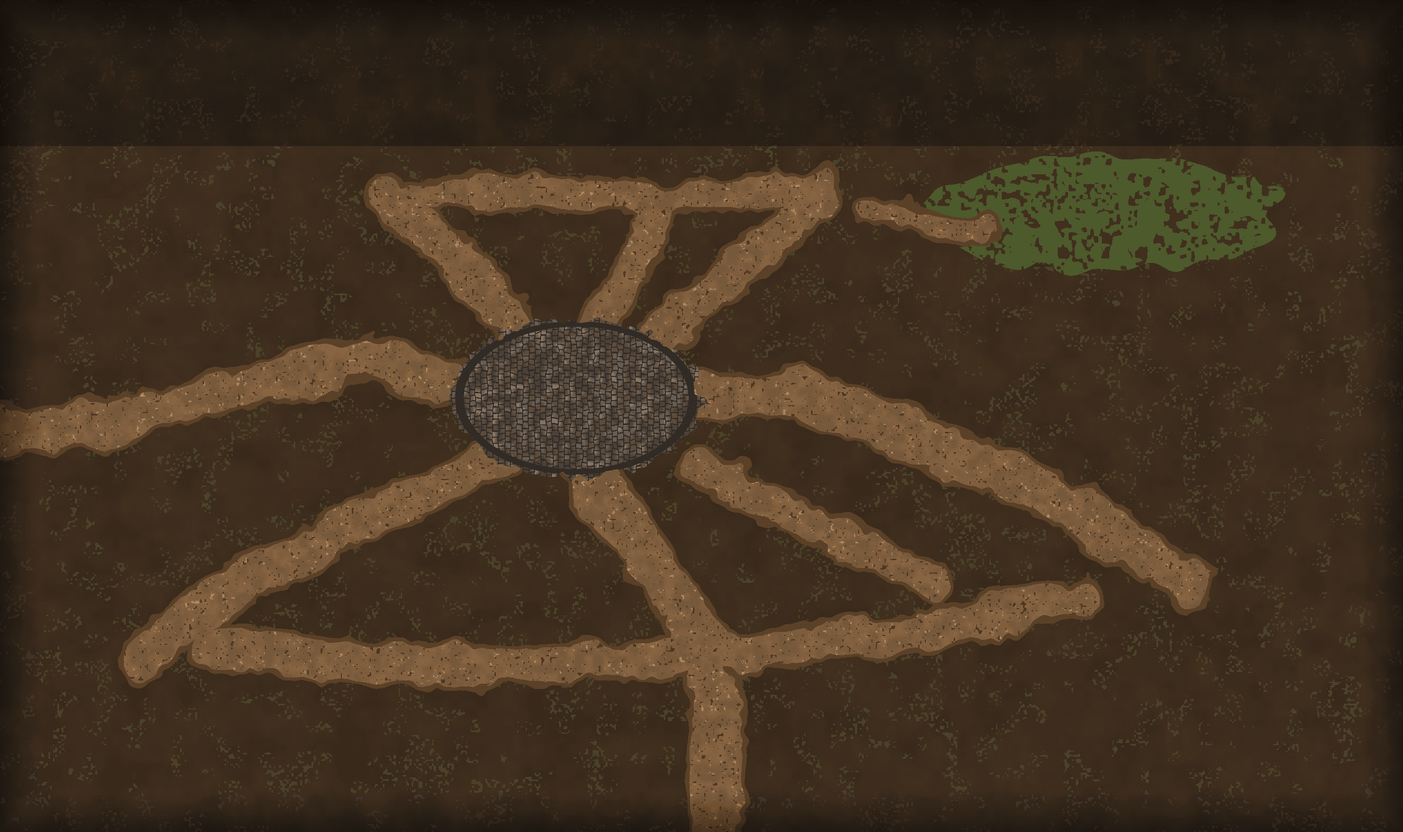
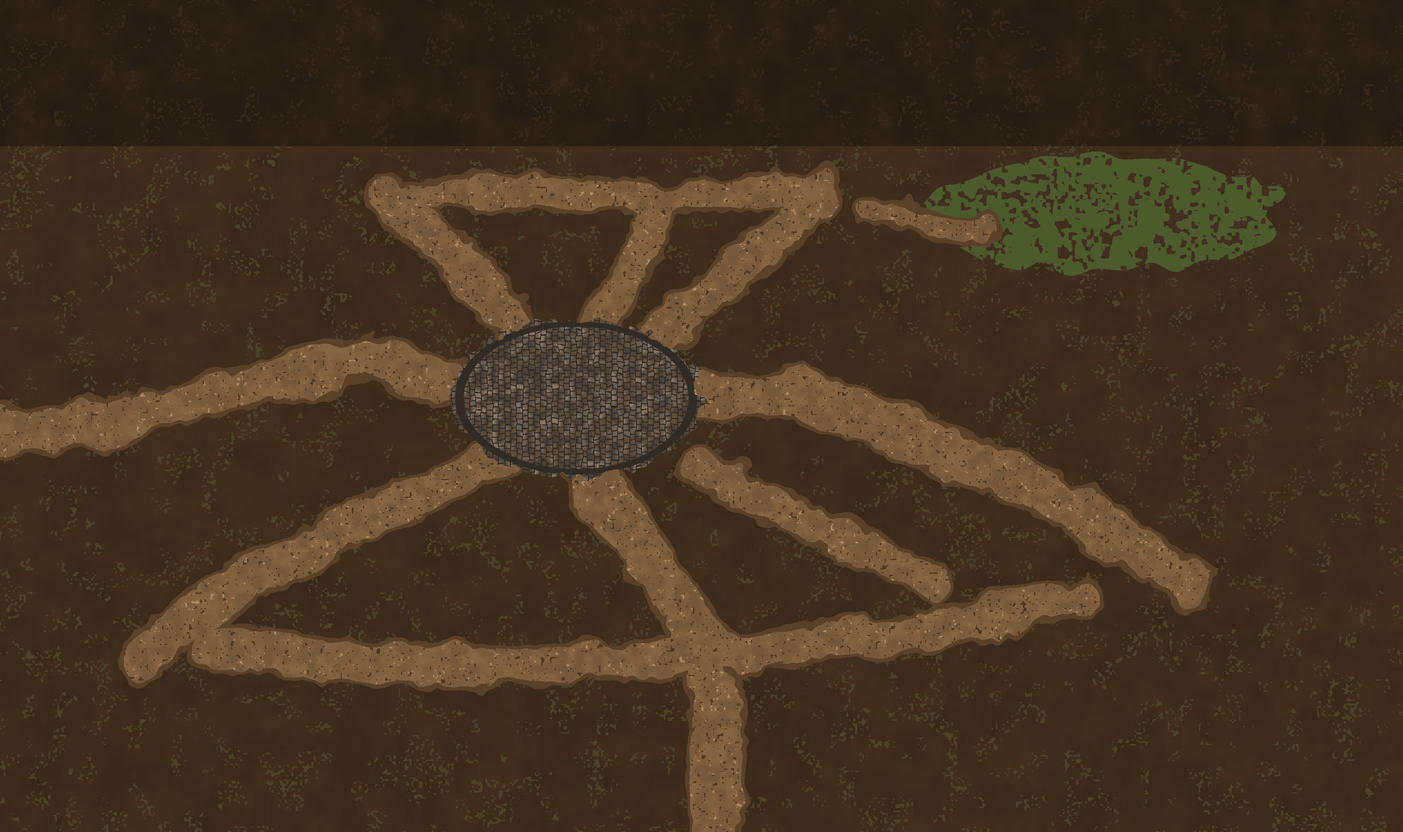
PR #122 review (art room): start inside the south gate, mobs never step into a town part (moveCol), gate opening walkable (no prop solid rect over it; Gas stands beside it), no bright band at the gate seam (town dusk fades into the field top, no dark bottom edge in town); main merged (#121)
Claude-Session: https://claude.ai/code/session_011TjkMwr4fUrpUSjUtodMij

diff --git a/test128/world.js b/test128/world.js
@@ -104,7 +104,7 @@
       for (const k in r.spawns || {}) { const v = r.spawns[k]; spawns[p.map + ':' + k] = [v[0] + p.x, v[1] + p.y].concat(v.slice(2)); }
       for (const k in r.chests || {}) { const [cx, cy] = k.split(',').map(Number); chests[(cx + p.x) + ',' + (cy + p.y)] = r.chests[k]; }
       if (r.hd) (j._hds = j._hds || []).push(Object.assign({}, r.hd, { gx: p.x, gy: p.y }));
-      areas.push({ zoom: r.viewZoom, id: p.map, part: p.map, name: (r.title && r.title.name) || r.name, sub: (r.title && r.title.sub) || '', x: p.x, y: p.y, w: r.w, h: r.h, bgm: r.bgm, battleBgm: r.battleBgm, grade: r.grade, bg: r.bg }); });
+      areas.push({ town: r.type === 'town', zoom: r.viewZoom, id: p.map, part: p.map, name: (r.title && r.title.name) || r.name, sub: (r.title && r.title.sub) || '', x: p.x, y: p.y, w: r.w, h: r.h, bgm: r.bgm, battleBgm: r.battleBgm, grade: r.grade, bg: r.bg }); });
     spawns.default = spawns.default || spawns[ids[0] + ':default'];
     return Object.assign({}, parts[0], j, { type: 'field', w: W, h: H, ground: rows.map(r => r.join('')), legend, solid: [...solid], objects, spawns, chests, areas: j.areas || areas, bg: null, grade: null,
       title: j.title || parts[0].title, name: j.name || parts[0].name, bgm: parts[0].bgm, mapPos: [0, 0], hd: null, hds: j._hds || null }); }); }
@@ -380,7 +380,8 @@
   function blocked(x, y, r) { return solidAt(x, y) || solidAt(x - r, y) || solidAt(x + r, y) || solidAt(x, y - r * .6) || solidAt(x, y + r * .4); }
   function moveCol(e, dx, dy, r, fly) {
     const m = M(); let ok = true;
-    const bl = fly ? (x, y) => x < 6 || y < 10 || x > m.pw - 6 || y > m.ph - 4 : (x, y) => blocked(x, y, r);
+    const b0 = fly ? (x, y) => x < 6 || y < 10 || x > m.pw - 6 || y > m.ph - 4 : (x, y) => blocked(x, y, r);
+    const bl = e !== hero && m.compose ? (x, y) => b0(x, y) || !!(areaOf(m, x, y) || {}).town : b0; // mobs never enter a town part (마을 = 전투 없음)
     if (dx) { if (!bl(e.x + dx, e.y)) e.x += dx; else ok = false; }
     if (dy) { if (!bl(e.x, e.y + dy)) e.y += dy; else ok = false; }
     return ok;

diff --git a/test128/tools/hd/build_felt.py b/test128/tools/hd/build_felt.py
@@ -82,7 +82,7 @@ def place(pid, gx, gy, n=''):
         for x in (sx0, sx1): solid[int((wy - 1) // T)][x] = True
     big = kind == 'building' and pid != 'fountain'
     props.append({'id': pid + n, 'role': p.get('role', ''), 'img': f'assets/world/felt/{p["img"]}', 'x': wx / T, 'y': wy / T, 'ax': p['ax'], 'ay': p['ay'],
-                  'solid': [sx0, sy0, sx1, sy1], 'fade': 1 if big or pid in ('watchtower', 'mausoleum', 'south_gate', 'string_lights') else 0, 'shadow': 0 if big else 1})
+                  'solid': None if pid in ('south_gate', 'string_lights') else [sx0, sy0, sx1, sy1], 'fade': 1 if big or pid in ('watchtower', 'mausoleum', 'south_gate', 'string_lights') else 0, 'shadow': 0 if big else 1})
 for pid, p in PJ.items():
     if 'grok_foot' in p: place(pid, *p['grok_foot'])
 ss = PJ['shop_sign']; place('well', ss['grok_foot'][0] - 92 / D / S, ss['grok_foot'][1] + 4, '_shop')   # covers the villager baked into the store art
@@ -138,7 +138,7 @@ plaza = pr < 1 + (n2 - .5) * .12
 stone = sel([shade < .35, shade < .6, shade < .82], [cols['s1'], cols['s2'], cols['s3']], cols['s4'])
 img[plaza] = np.where(mort[plaza][:, None], cols['s0'], stone[plaza]); img[plaza & (pr > .9) & (pr < .97)] = cols['s0']
 # edges: darker toward the map border (no hard frame), backdrop band darker still
-edge = np.minimum.reduce([wxp, wyp, W * T - wxp, H * T - wyp]); img *= np.clip(.55 + edge / 60, .55, 1)[..., None]
+edge = np.minimum.reduce([wxp, wyp, W * T - wxp, H * T - wyp + 400])   # no dark band at the bottom: the ash field joins there; img *= np.clip(.55 + edge / 60, .55, 1)[..., None]
 img[wyp < 175 * S] *= .7
 # snap to the town palette (base24 + accents)
 pal = np.array([hx(c) for c in (PAL['base24'] + PAL['accent8'] if PAL else [v for v in ('#201810',)])])
@@ -170,7 +170,7 @@ for o in F['objects']:
     objs.append(o)
 NEAR = {'f_rom': ['f_door_smith', -1, 1], 'f_bart': ['f_door_chief', -3, 1], 'f_oswald': ['f_door_chapel', 0, 1], 'f_martha': ['f_door_inn', 0, 1],
         'f_sera': ['f_door_herb', 0, 1], 'f_ben': ['f_mark_stall', -4, 0], 'f_linette': ['f_door_atelier', -2, 1], 'f_luca': ['f_mark_fountain', 5, 1],
-        'f_toby': ['f_mark_fountain', 2, 4], 'f_gas': ['f_mark_gate', -1, -3]}
+        'f_toby': ['f_mark_fountain', 2, 4], 'f_gas': ['f_mark_gate', -2, -5]}
 if not any(o['type'] == 'mark' for o in objs):
     objs += [{'type': 'mark', 'id': 'f_mark_fountain', 'x': foot('fountain', 0, -2)[0], 'y': foot('fountain', 0, -2)[1]},
              {'type': 'mark', 'id': 'f_mark_stall', 'x': foot('red_stall')[0], 'y': foot('red_stall')[1]}, {'type': 'mark', 'id': 'f_mark_gate', 'x': EX[0], 'y': EX[1] - 1}]
@@ -204,7 +204,7 @@ for i in range(14):
     for j in range(n): dx = (j - n / 2) * 1.1; WEBS.append([x + dx, y - 2 - (j % 2), x + dx + 1.2 + t, y - .2, .5 + t, .25 + .5 * t])
 m = {k: F[k] for k in ('type', 'area', 'region', 'title', 'bgm', 'battleBgm', 'tileset', 'tile') if k in F}
 m.update(id='felt', name='펠트', w=W, h=H, legend={'.': 'dirt', '#': 'cliff'}, solid=['#'], ground=[''.join(r) for r in rows], objects=objs,
-         spawns={'default': [EX[0] + .5, EX[1] - 1.5, 'up'], 'world': [EX[0] + .5, EX[1] - 1.5, 'up'], 'field': [EX[0] + .5, EX[1] - 1.5, 'up']},
+         spawns={'default': [EX[0] + .5, EX[1] - 7.5, 'up'], 'world': [EX[0] + .5, EX[1] - 7.5, 'up'], 'field': [EX[0] + .5, EX[1] - 1.5, 'up']},   # start inside the south gate (forge, chief's house, statue ahead)
          hd={'D': GD, 'ground': 'assets/world/felt/ground.png', 'props': [dict(q, D=D) for q in props], 'lights': LIGHTS, 'webs': WEBS, 'smoke': SMOKE, 'grade': 'dusk'},
          note='GENERATED by tools/hd/build_felt.py from the town-art room parts + maps/src/felt.json (doors / NPCs / clues) - do not hand-edit')
 json.dump(m, open(os.path.join(ROOT, 'maps', 'felt.json'), 'w'), ensure_ascii=False, indent=1)

diff --git a/test128/tools/hd/build_field_felt_hd.py b/test128/tools/hd/build_field_felt_hd.py
@@ -75,6 +75,7 @@ for _ in range(40):
     img[(q < .35)] = cols['d1'] * .7; img[(q >= .35) & (q < 1) & (((xx + yy) % 2) == 0)] = cols['d1']
 # ash grade: town warm at the top rows (south-gate seam) -> full ash by row 5
 k = np.clip((wyp - 8) / (5 * T), .15, .9); img = ash(img, k)
+f = np.clip(1 - wyp / (5 * T), 0, 1)[..., None]; img = img * (1 - f + f * np.array([206, 196, 222.]) / 255)   # the town's 'dusk' grade fades out over the top rows: no bright band at the gate seam
 edge = np.minimum(wxp, W * T - wxp); img *= np.clip(.7 + edge / 80, .7, 1)[..., None]
 pal = np.array([hx(c) for c in PAL['base24'] + PAL['accent8']]); pal = np.concatenate([pal, ash(pal)])   # town colours + their ash twins
 BAYER = (np.array([[0, 8, 2, 10], [12, 4, 14, 6], [3, 11, 1, 9], [15, 7, 13, 5]]) / 16 - .47)[(yy % 4).astype(int), (xx % 4).astype(int)][..., None]   # ordered dither: fine 1-pixel grain instead of big blotches
